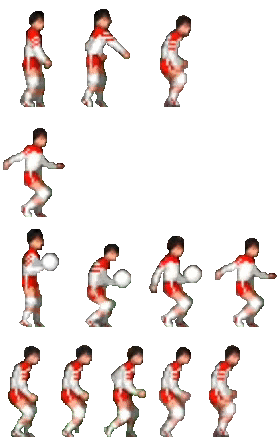
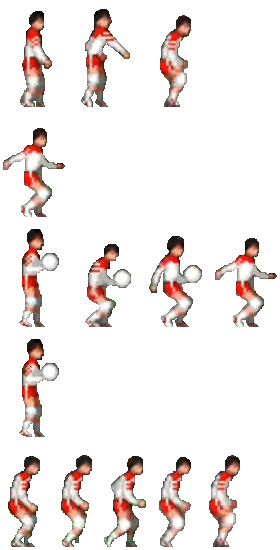
player 서브 상태 및 스프라이트 시트 수정

diff --git a/player.py b/player.py
@@ -37,21 +37,74 @@ def time_out(e):
     return e[0] == 'TIME_OUT'
 
 
-class ServeHit:
+class DriveServeHit:
     @staticmethod
-    def enter(player, e): # Serve 상태로 들어갈 때 할 것
+    def enter(player, e): # DriveServeHit 상태로 들어갈 때 할 것
         player.frame = 0
-        player.action = 3
-        player.frame_num = DRIVE_HIT_N
-        player.frame_len = DRIVE_W
+        player.action = 4
+        player.frame_num = 3
+        player.frame_len = 70
 
     @staticmethod
-    def exit(player, e): # Serve 상태에서 나올 때 할 것
+    def exit(player, e): # DriveServeHit 상태에서 나올 때 할 것
         pass
 
     @staticmethod
-    def do(player): # Serve 상태인 동안 할 것
+    def do(player): # DriveServeHit 상태인 동안 할 것
         if player.frame == 2:
+            player.state_machine.handle_event(('TIME_OUT', 0))
+        player.frame = (player.frame + 1) % player.frame_num
+        delay(0.05)
+
+    @staticmethod
+    def draw(player): # player 그리기
+        player.image.clip_draw(player.frame * player.frame_len,
+                              player.action * player.action_len,
+                              player.frame_len, player.action_len, player.x, player.y)
+
+
+class DriveServeWait:
+    @staticmethod
+    def enter(player, e): # DriveServeWait 상태로 들어갈 때 할 것
+        player.frame = 0
+        player.action = 3
+        player.frame_num = 1
+        player.frame_len = 70
+        player.start_time = get_time()
+
+    @staticmethod
+    def exit(player, e): # DriveServeWait 상태에서 나올 때 할 것
+        pass
+
+    @staticmethod
+    def do(player): # DriveServeWait 상태인 동안 할 것
+        player.frame = (player.frame + 1) % player.frame_num
+        if get_time() - player.start_time > 1.5:
+            player.state_machine.handle_event(('TIME_OUT', 0))
+
+
+    @staticmethod
+    def draw(player): # player 그리기
+        player.image.clip_draw(player.frame * player.frame_len,
+                              player.action * player.action_len,
+                              player.frame_len, player.action_len, player.x, player.y)
+
+
+class DriveServeReady:
+    @staticmethod
+    def enter(player, e): # DriveServeReady 상태로 들어갈 때 할 것
+        player.frame = 0
+        player.action = 2
+        player.frame_num = 4
+        player.frame_len = 70
+
+    @staticmethod
+    def exit(player, e): # DriveServeReady 상태에서 나올 때 할 것
+        player.make_ball()
+
+    @staticmethod
+    def do(player): # DriveServeReady 상태인 동안 할 것
+        if player.frame == 3:
             player.state_machine.handle_event(('TIME_OUT', 0))
         player.frame = (player.frame + 1) % player.frame_num
         delay(0.05)
@@ -65,49 +118,23 @@ class ServeHit:
 
 class ServeWait:
     @staticmethod
-    def enter(player, e): # Serve 상태로 들어갈 때 할 것
+    def enter(player, e): # ServeWait 상태로 들어갈 때 할 것
         player.frame = 0
-        player.action = 2
-        player.frame_num = DRIVE_WAIT_N
-        player.frame_len = DRIVE_W
+        player.action = 1
+        player.frame_num = 1
+        player.frame_len = 70
         player.start_time = get_time()
 
     @staticmethod
-    def exit(player, e): # Serve 상태에서 나올 때 할 것
+    def exit(player, e): # ServeWait 상태에서 나올 때 할 것
         pass
 
     @staticmethod
-    def do(player): # Serve 상태인 동안 할 것
+    def do(player): # ServeWait 상태인 동안 할 것
         player.frame = (player.frame + 1) % player.frame_num
         if get_time() - player.start_time > 2:
             player.state_machine.handle_event(('TIME_OUT', 0))
 
-
-    @staticmethod
-    def draw(player): # player 그리기
-        player.image.clip_draw(player.frame * player.frame_len,
-                              player.action * player.action_len,
-                              player.frame_len, player.action_len, player.x, player.y)
-
-
-class ServeReady:
-    @staticmethod
-    def enter(player, e): # Serve 상태로 들어갈 때 할 것
-        player.frame = 0
-        player.action = 1
-        player.frame_num = DRIVE_READY_N
-        player.frame_len = DRIVE_W
-
-    @staticmethod
-    def exit(player, e): # Serve 상태에서 나올 때 할 것
-        player.make_ball()
-
-    @staticmethod
-    def do(player): # Serve 상태인 동안 할 것
-        if player.frame == 3:
-            player.state_machine.handle_event(('TIME_OUT', 0))
-        player.frame = (player.frame + 1) % player.frame_num
-        delay(0.05)
 
     @staticmethod
     def draw(player): # player 그리기
@@ -172,11 +199,12 @@ class StateMachine:
         self.player = player
         self.cur_state = Idle
         self.table = {
-            Idle: {right_down: Move, right_up: Move, left_down: Move, left_up: Move, space_down: ServeReady},
+            Idle: {right_down: Move, right_up: Move, left_down: Move, left_up: Move, space_down: ServeWait},
             Move: {right_down: Idle, right_up: Idle, left_down: Idle, left_up: Idle},
-            ServeReady: {time_out: ServeWait},
-            ServeWait: {space_down: ServeHit, time_out: Idle},
-            ServeHit: {time_out: Idle}
+            ServeWait: {space_down: DriveServeReady, time_out: Idle},
+            DriveServeReady: {time_out: DriveServeWait},
+            DriveServeWait: {space_down: DriveServeHit, time_out: Idle},
+            DriveServeHit: {time_out: Idle}
         }
 
     def start(self):
